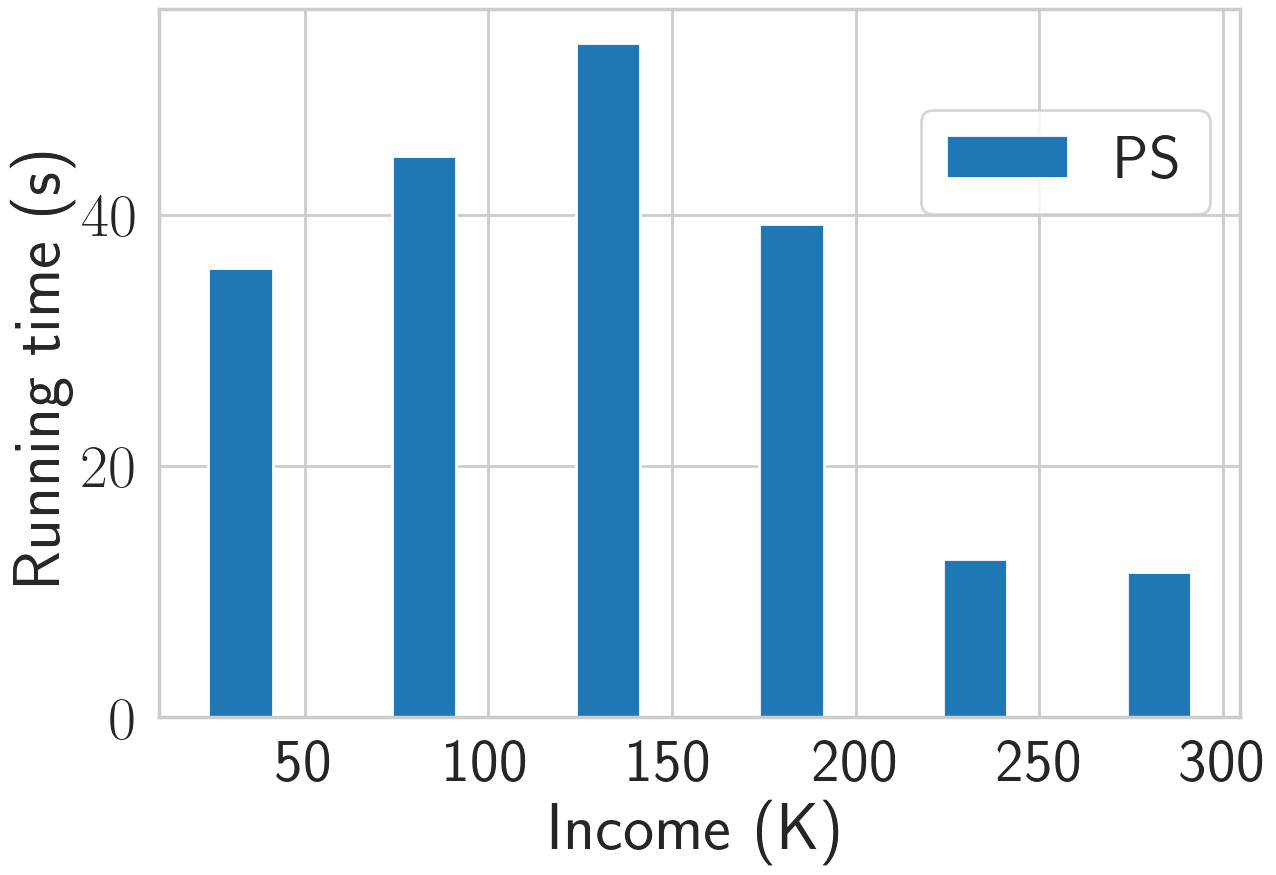
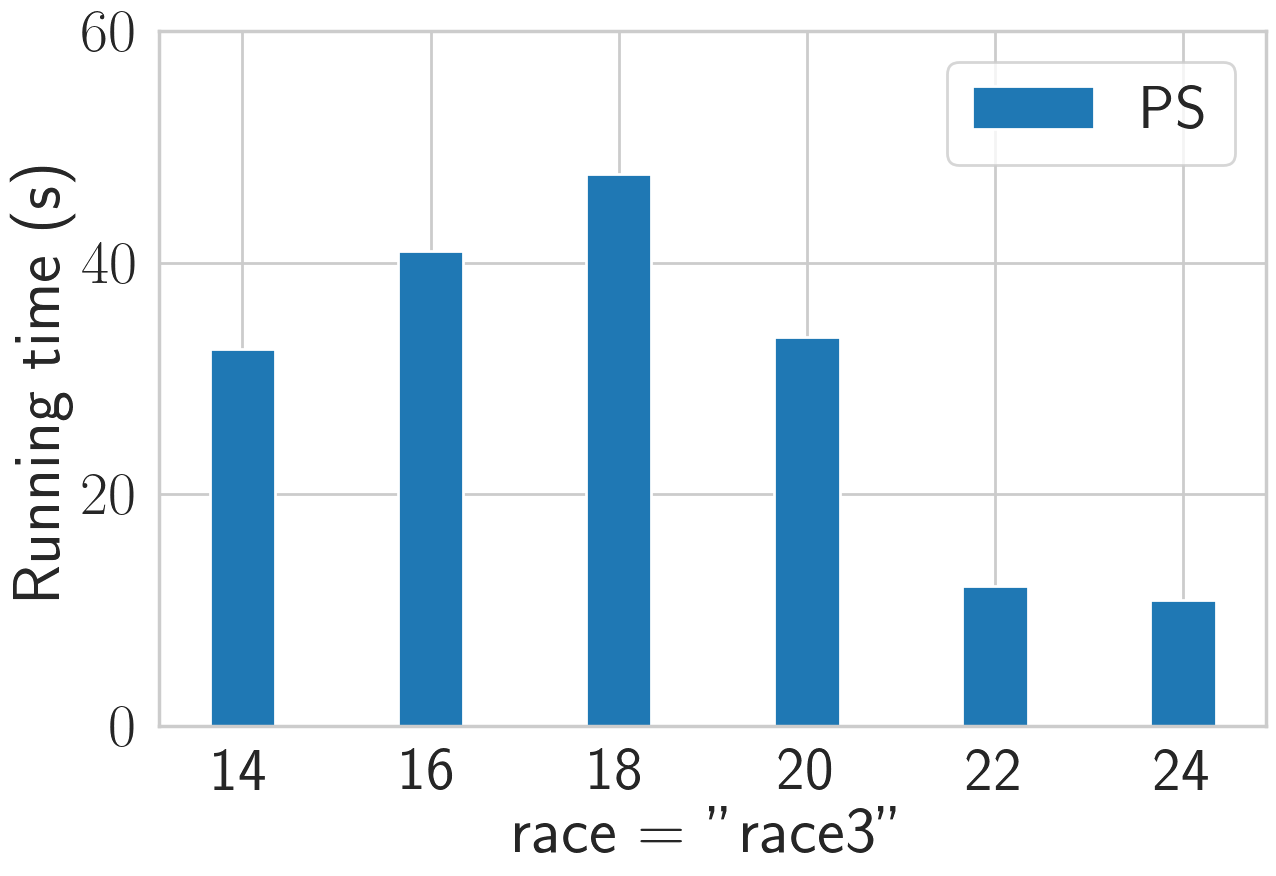
healthcare constraint change

diff --git a/Experiment/healthcare/constraint_change/Q1C3/constraint_change_q1c3.py b/Experiment/healthcare/constraint_change/Q1C3/constraint_change_q1c3.py
@@ -31,7 +31,7 @@ time_limit = 5*60
 
 def run_query(q):
 
-    time_output_file = r"./constraint_change_q1c3_1.csv"
+    time_output_file = r"./constraint_change_q1c3.csv"
     time_output = open(time_output_file, "w")
     time_output.write("income,PS,LT\n")
 
@@ -49,14 +49,14 @@ def run_query(q):
 
         print("running time = {}".format(running_time1))
         print(*minimal_refinements1, sep="\n")
-        print("========================== lattice traversal ===================================")
-
-        minimal_refinements2, minimal_added_refinements2, running_time2 = \
-            lt.FindMinimalRefinement(data_file, query_file, constraint_file, time_limit)
-        print("running time = {}".format(running_time2))
-        if running_time2 < time_limit:
-            print(*minimal_refinements2, sep="\n")
-
+        # print("========================== lattice traversal ===================================")
+        #
+        # minimal_refinements2, minimal_added_refinements2, running_time2 = \
+        #     lt.FindMinimalRefinement(data_file, query_file, constraint_file, time_limit)
+        # print("running time = {}".format(running_time2))
+        # if running_time2 < time_limit:
+        #     print(*minimal_refinements2, sep="\n")
+        running_time2 = 0
         result_output.write("\n")
         idx = i * 50
         time_output.write("{},{:0.2f},{:0.2f}\n".format(idx, running_time1, running_time2))

diff --git a/Experiment/healthcare/constraint_change/Q1C3/fig.py b/Experiment/healthcare/constraint_change/Q1C3/fig.py
@@ -56,12 +56,13 @@ fig, ax = plt.subplots(1, 1, figsize=f_size)
 
 plt.bar(index, execution_timeps, bar_width, color=color[0], label=label[0])
 # plt.bar(index + bar_width, execution_timelt, bar_width,  color=color[1], label=label[1])
-plt.xticks(index + bar_width, x_list)
+plt.xticks(index, x_list)
 
-plt.xlabel('Income (K)')
+plt.xlabel('race = "race3"')
 plt.ylabel('Running time (s)')
-plt.legend(bbox_to_anchor=(1, 0.9), loc="upper right")
-# plt.yscale("log")
+# plt.legend(bbox_to_anchor=(1, 0.9), loc="upper right")
+plt.legend(loc="best")
+plt.yticks([0, 20, 40, 60])
 plt.tight_layout()
 plt.savefig("healthcare_constraint_change_q1c3.png",
             bbox_inches='tight')
